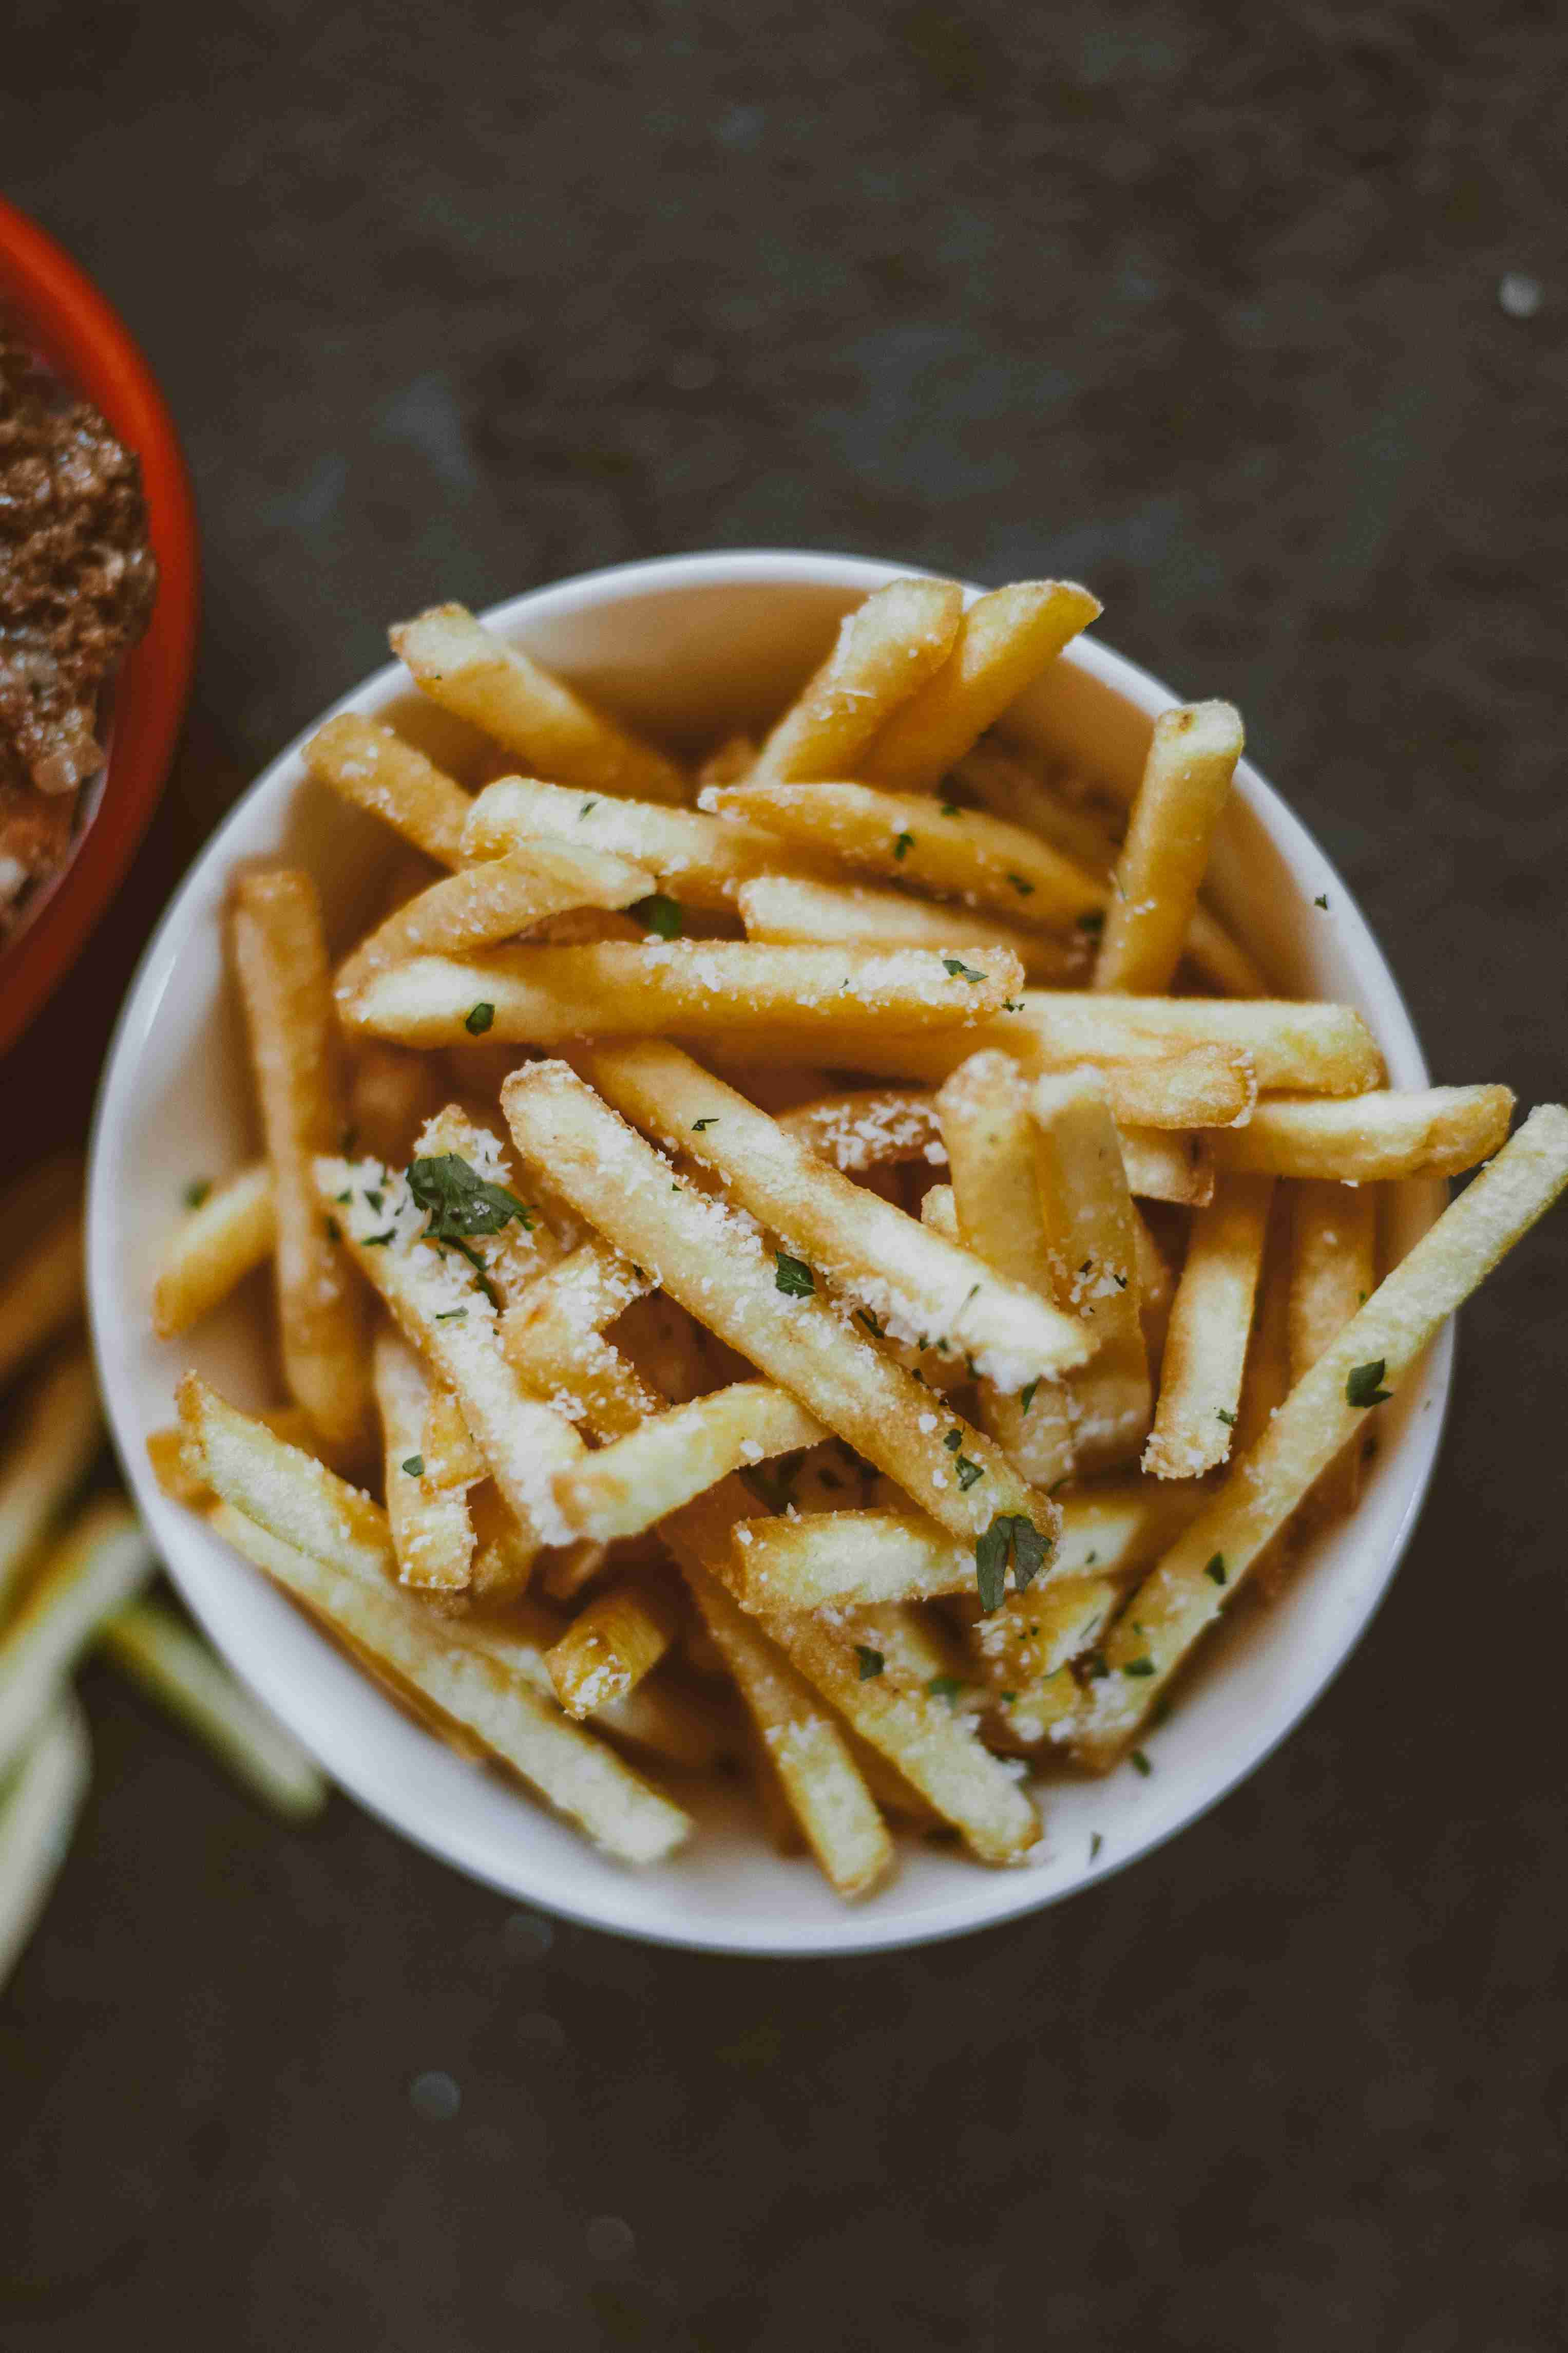
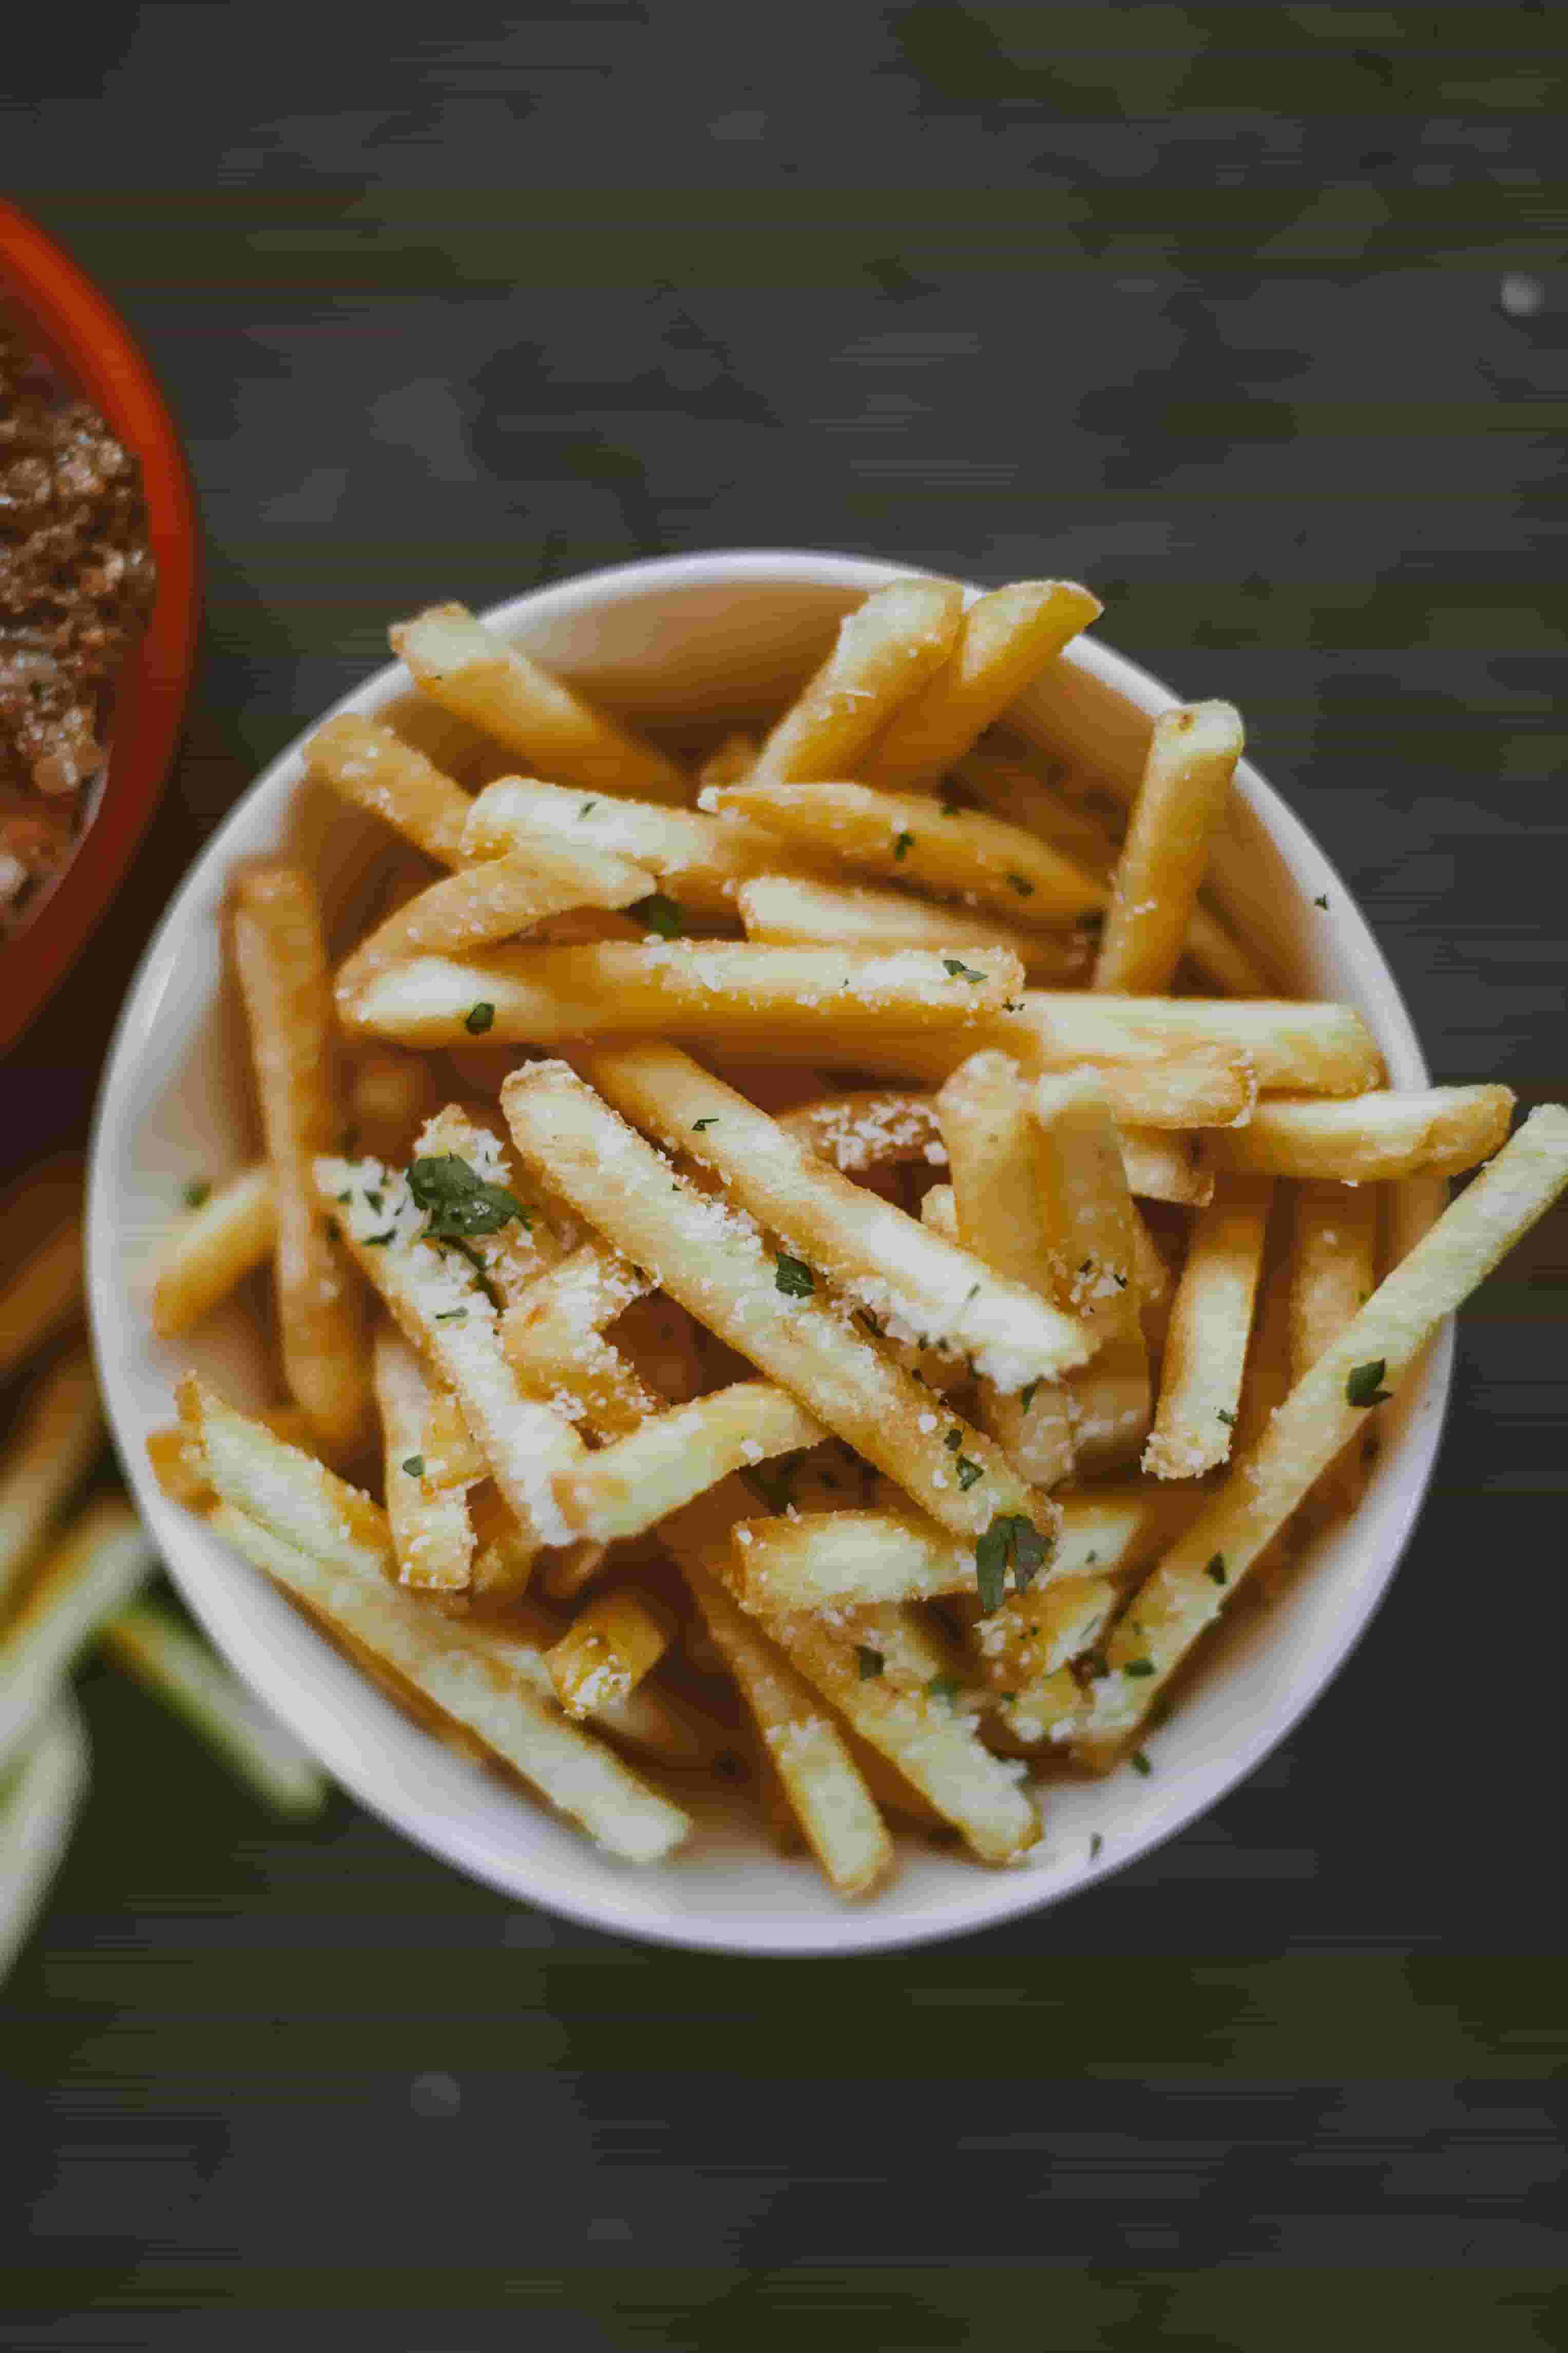
feat(bg): update bg image

Changed region(s): [[0.3733, 0.5307, 0.4044, 0.5619]]

diff --git a/src/App.tsx b/src/App.tsx
@@ -1,5 +1,5 @@
 import { useEffect, lazy, Suspense } from 'react'
-import herobg from '@/assets/herobg.png'
+import herobg from '@/assets/herobg.jpg'
 import {
   createBrowserRouter,
   RouterProvider,
@@ -51,7 +51,7 @@ function AppShell() {
 
   return (
     <div
-      className="min-h-screen bg-cover bg-center bg-fixed"
+      className="min-h-screen bg-cover bg-center"
       style={{ backgroundImage: `url(${herobg})` }}
     >
       <div className="min-h-screen bg-[#051107]/85">
